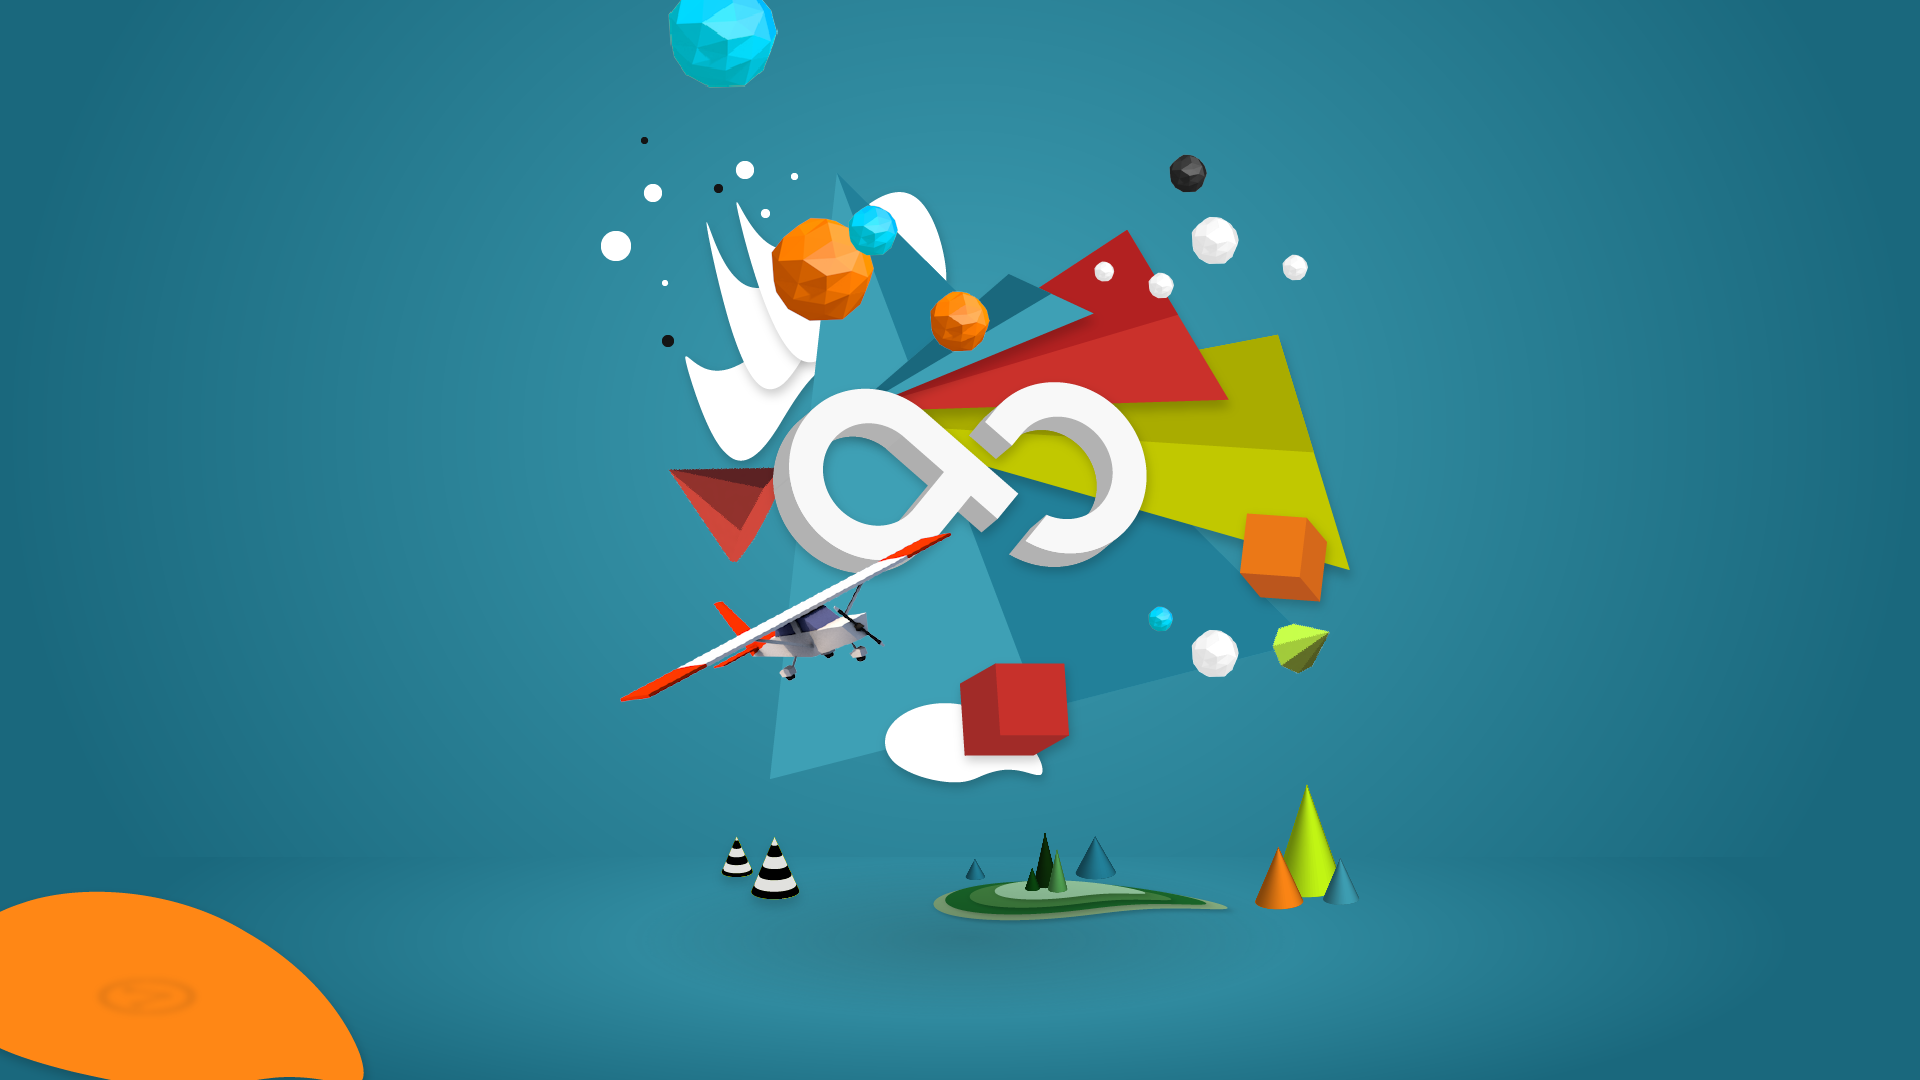
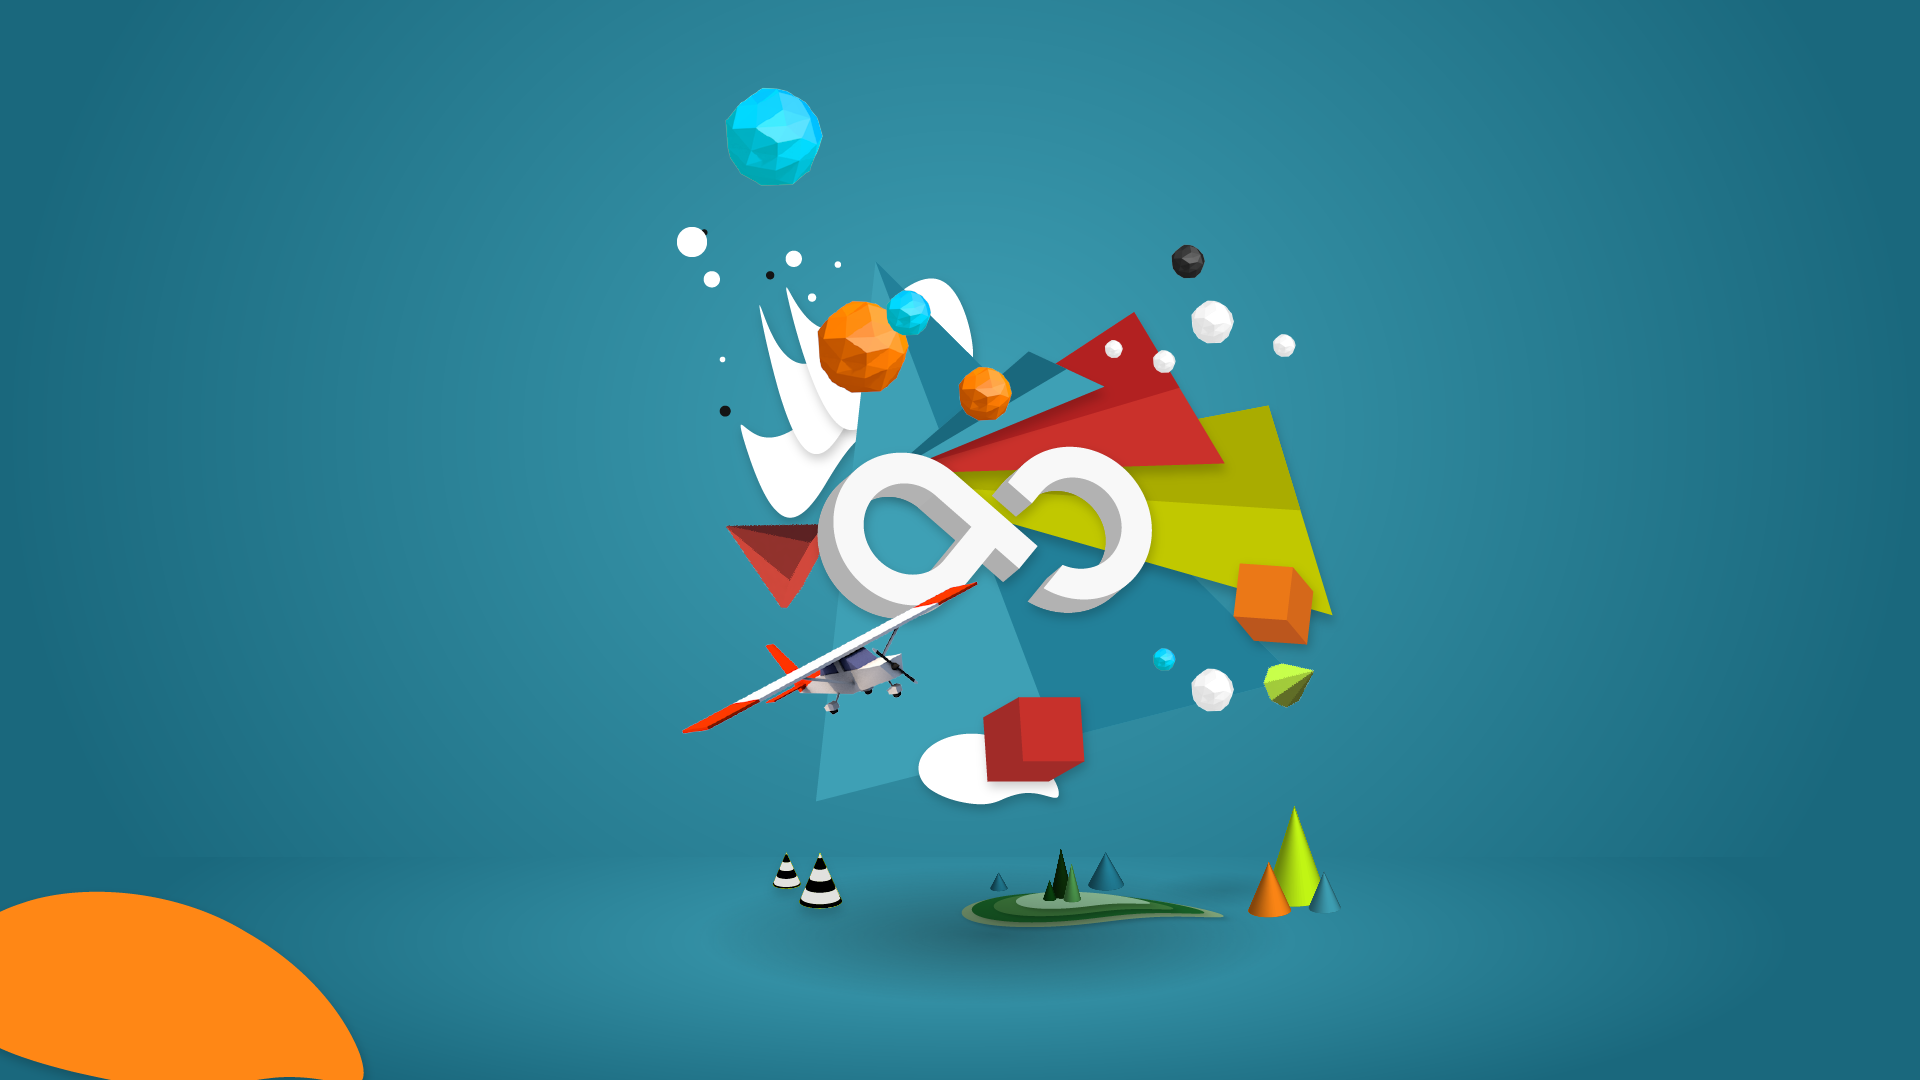
Add files via upload

diff --git a/assets/js/function.js b/assets/js/function.js
@@ -165,29 +165,50 @@ var programmingMenuElem=document.getElementById("programming-menu");
 
 function HoverMenu(menu)
 {
-    if(menu==1&&!graphicTrue||menu==1&&frontPageTrue)
+    if(menu==1||menu==1&&frontPageTrue)
         {
             graphicsMenuElem.style.borderBottom="2px solid currentColor";
         }
-    else if(menu==2&&!d3True||menu==2&&frontPageTrue)
+    else if(menu==2||menu==2&&frontPageTrue)
         {
             d3MenuElem.style.borderBottom="2px solid currentColor";
         }
-    else if(menu==3&&!programmingTrue||menu==3&&frontPageTrue)
+    else if(menu==3||menu==3&&frontPageTrue)
         {
            programmingMenuElem.style.borderBottom="2px solid currentColor";
         }
-    else if(menu==4&&!graphicTrue||menu==4&&frontPageTrue)
+    else if(menu==4)
         {
+            if(!graphicTrue||frontPageTrue)
+                {
             graphicsMenuElem.style.borderBottom="none";
-        }
-    else if(menu==5&&!d3True||menu==5&&frontPageTrue)
+                }
+            else
+                {
+                    graphicsMenuElem.style.borderBottom="1px solid currentColor";
+                }
+}   
+    else if(menu==5)
         {
+            if(!d3True||frontPageTrue)
+                {
             d3MenuElem.style.borderBottom="none";
+                }
+            else
+                {
+                    d3MenuElem.style.borderBottom="1px solid currentColor";
+                }
         }
-    else if(menu==6&&!programmingTrue||menu==66&&frontPageTrue)
+    else if(menu==6)
         {
-           programmingMenuElem.style.borderBottom="none";
+           if(!programmingTrue||frontPageTrue)
+                {
+            programmingMenuElem.style.borderBottom="none";
+                }
+            else
+                {
+                    programmingMenuElem.style.borderBottom="1px solid currentColor";
+                }
         }
 }
 var randomLogo=0;

diff --git a/assets/css/computer.css b/assets/css/computer.css
@@ -13,7 +13,7 @@ body {
 
 .front-page {
   position: absolute;
-  background: url("../img/background.png") no-repeat bottom center fixed;
+  background: url("../img/background.png") no-repeat center center fixed;
   background-size: cover;
   height: 100%;
   width: 100%; }
